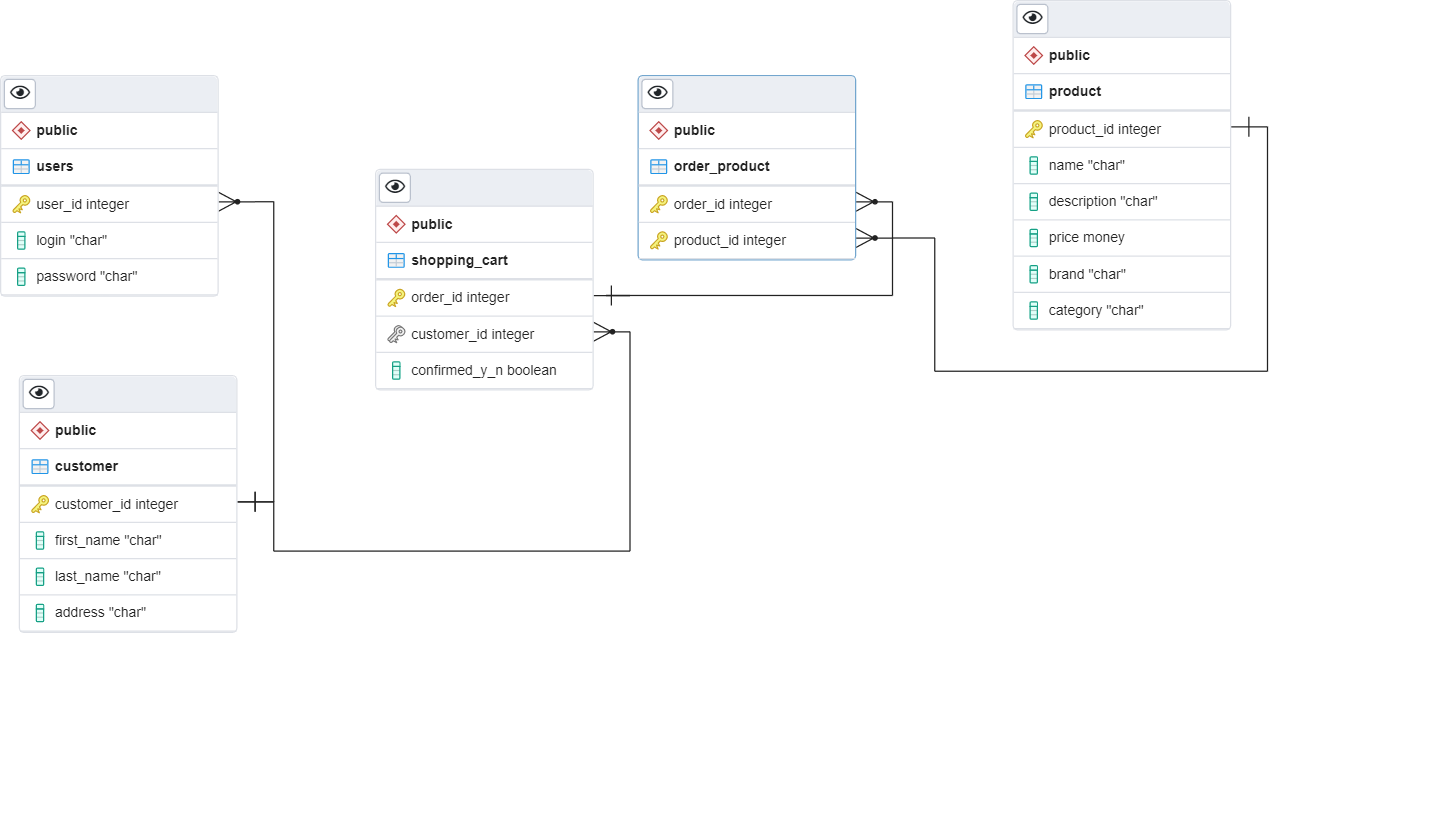
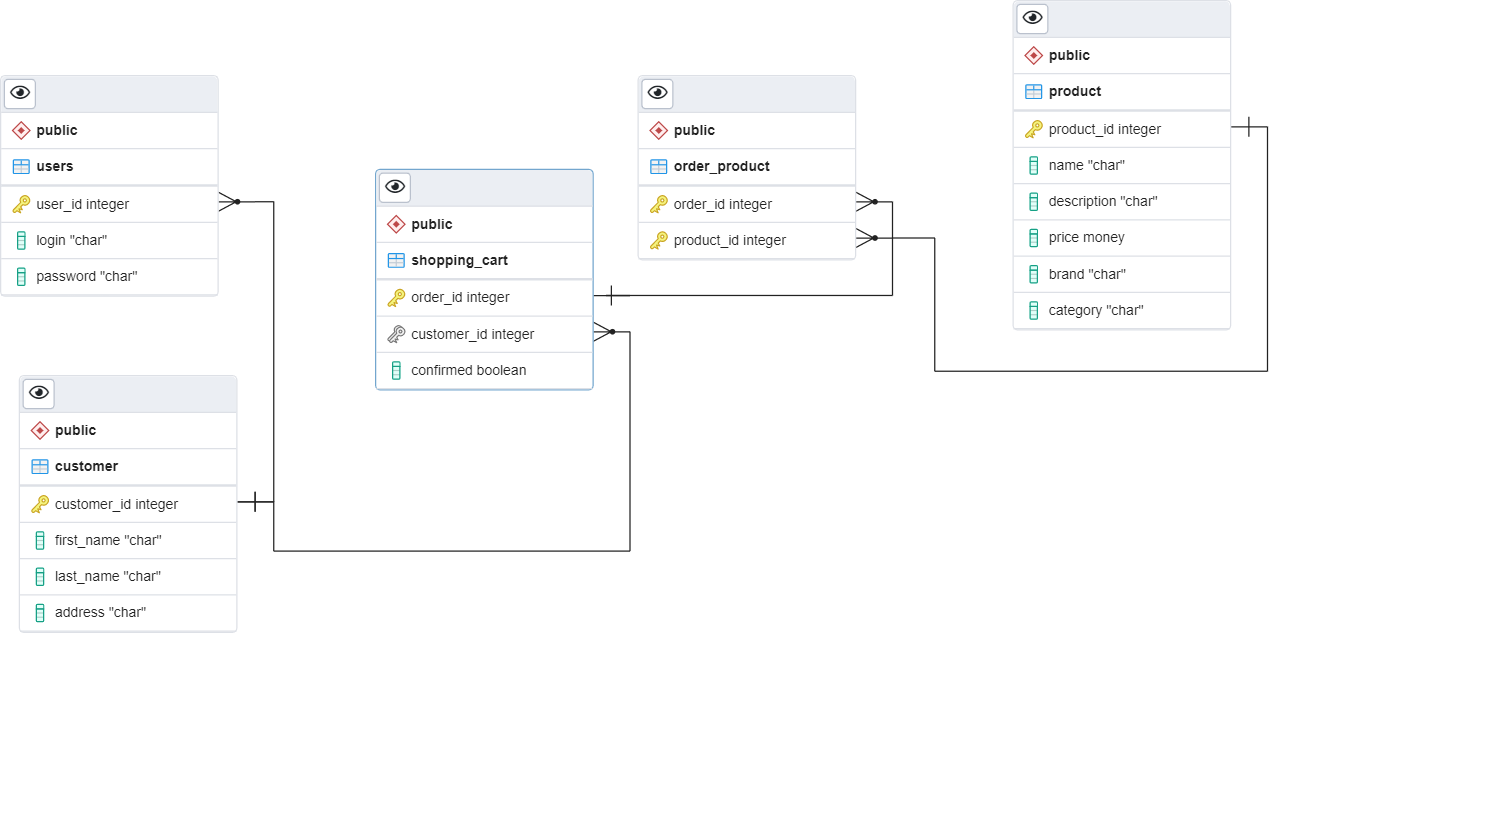
correction of ShoppingCart table;

diff --git a/src/main/java/com/solutions/shop/model/ShoppingCart.java b/src/main/java/com/solutions/shop/model/ShoppingCart.java
@@ -20,6 +20,6 @@ public class ShoppingCart {
     @NotNull
     private Integer customerId;
 
-    @Column(name = "confirmed_y_n")
+    @Column(name = "confirmed")
     private Boolean confirmed;
 }
